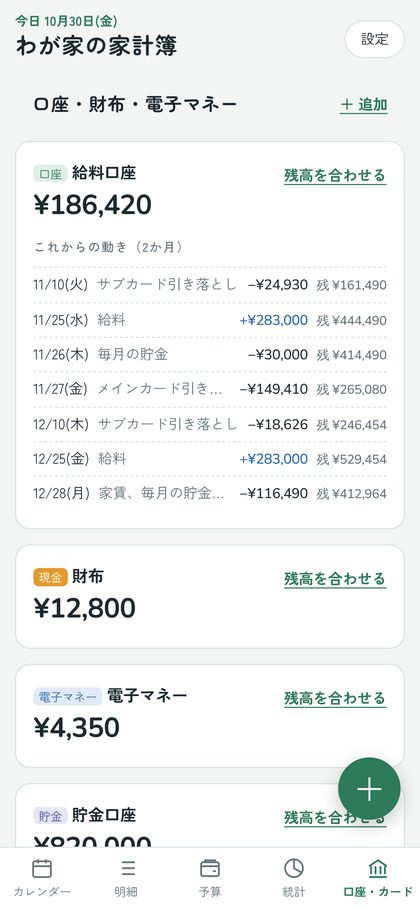
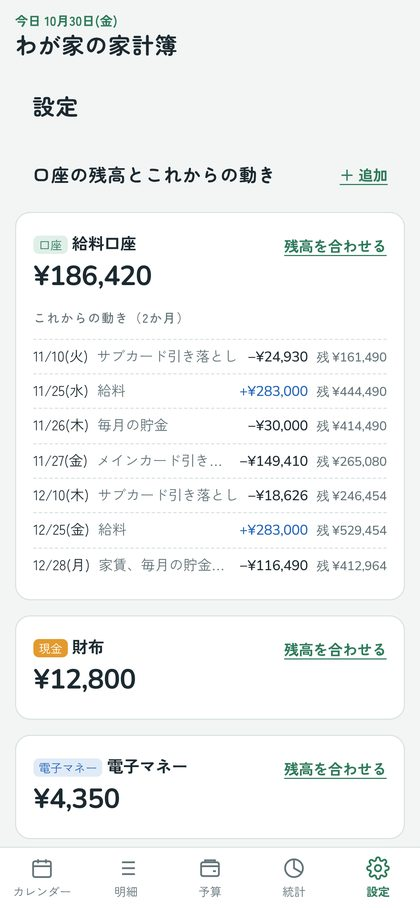
右下を設定にまとめる、残高未設定のときの表示を改善、画像とガイドを更新
Claude-Session: https://claude.ai/code/session_01Q4aVz5riDdXecmyc67e5gN

diff --git a/k-45o531gbsl/index.html b/k-45o531gbsl/index.html
@@ -280,7 +280,6 @@ button,a,.cell{touch-action:manipulation}
 <div class="wrap" id="app">
   <header class="top">
     <div><div class="today" id="todayLbl"></div><h1 id="appName">家計簿</h1></div>
-    <button class="setbtn" id="setBtn" type="button">設定</button>
   </header>
   <section class="card strip" id="strip"></section>
   <div class="monthbar" id="monthbar">
@@ -298,7 +297,7 @@ button,a,.cell{touch-action:manipulation}
   <button data-v="list"><svg viewBox="0 0 24 24" fill="none" stroke="currentColor" stroke-width="1.8"><path d="M8 6h13M8 12h13M8 18h13M3.5 6h.01M3.5 12h.01M3.5 18h.01"/></svg>明細</button>
   <button data-v="budget"><svg viewBox="0 0 24 24" fill="none" stroke="currentColor" stroke-width="1.8"><rect x="3" y="6" width="18" height="14" rx="2"/><path d="M3 10h18M15 15h3M7 6V4h10v2"/></svg>予算</button>
   <button data-v="stats"><svg viewBox="0 0 24 24" fill="none" stroke="currentColor" stroke-width="1.8"><path d="M12 3v9l7.8 4.5"/><circle cx="12" cy="12" r="9"/></svg>統計</button>
-  <button data-v="accts"><svg viewBox="0 0 24 24" fill="none" stroke="currentColor" stroke-width="1.8"><path d="M3 10l9-6 9 6M5 10v8M19 10v8M9.5 10v8M14.5 10v8M3 21h18"/></svg>口座・カード</button>
+  <button data-v="set"><svg viewBox="0 0 24 24" fill="none" stroke="currentColor" stroke-width="1.8" stroke-linecap="round" stroke-linejoin="round"><circle cx="12" cy="12" r="3.2"/><path d="M19.4 15a1.7 1.7 0 0 0 .3 1.8l.1.1a2 2 0 1 1-2.8 2.8l-.1-.1a1.7 1.7 0 0 0-1.8-.3 1.7 1.7 0 0 0-1 1.5V21a2 2 0 1 1-4 0v-.1a1.7 1.7 0 0 0-1.1-1.5 1.7 1.7 0 0 0-1.8.3l-.1.1a2 2 0 1 1-2.8-2.8l.1-.1a1.7 1.7 0 0 0 .3-1.8 1.7 1.7 0 0 0-1.5-1H3a2 2 0 1 1 0-4h.1a1.7 1.7 0 0 0 1.5-1.1 1.7 1.7 0 0 0-.3-1.8l-.1-.1a2 2 0 1 1 2.8-2.8l.1.1a1.7 1.7 0 0 0 1.8.3H9a1.7 1.7 0 0 0 1-1.5V3a2 2 0 1 1 4 0v.1a1.7 1.7 0 0 0 1 1.5 1.7 1.7 0 0 0 1.8-.3l.1-.1a2 2 0 1 1 2.8 2.8l-.1.1a1.7 1.7 0 0 0-.3 1.8V9a1.7 1.7 0 0 0 1.5 1H21a2 2 0 1 1 0 4h-.1a1.7 1.7 0 0 0-1.5 1z"/></svg>設定</button>
 </div></nav>
 <div class="scrim" id="scrim" hidden></div>
 <div class="sheet" id="sheet" role="dialog" aria-modal="true" hidden></div>
@@ -352,7 +351,7 @@ function bankClosed(d){const w=d.getDay(),m=d.getMonth()+1,day=d.getDate();retur
 
 /* ========== data ========== */
 const KEY='mainichi-kakeibo:v2';
-const APP_VERSION='1.2.1';
+const APP_VERSION='1.3.0';
 const SUPPORT_URL='';// 販売ページやお問い合わせ先のURLを入れると、設定に「お問い合わせ」ボタンが出ます
 const KINDS={bank:'銀行口座',cash:'財布（現金）',emoney:'電子マネー・アプリ',savings:'貯金用の口座'};
 const KIND_SHORT={bank:'口座',cash:'現金',emoney:'電子マネー',savings:'貯金'};
@@ -466,7 +465,7 @@ function monthOf(ym){const [a,b]=period(ym);return calc().all.filter(e=>e.date>=
 
 /* ========== state ========== */
 const state={view:'cal',ym:curYm(),sel:todayStr,filter:'all',statType:'out',statBy:'cat',budEdit:false,balEdit:null};
-try{const st=D.prefs.startTab;const v=st==='last'?localStorage.getItem(KEY+':view'):st;if(['cal','list','budget','stats','accts'].includes(v))state.view=v}catch(e){}
+try{let st=D.prefs.startTab;if(st==='accts')st=D.prefs.startTab='set';let v=st==='last'?localStorage.getItem(KEY+':view'):st;if(v==='accts')v='set';if(['cal','list','budget','stats','set'].includes(v))state.view=v}catch(e){}
 if(['budget','stats'].includes(state.view)&&!D.prefs.tabs[state.view])state.view='cal';
 const saveView=()=>{try{localStorage.setItem(KEY+':view',state.view)}catch(e){}};
 
@@ -496,7 +495,7 @@ function render(){
   $('todayLbl').textContent='今日 '+mdj(todayStr);
   document.querySelectorAll('.tabs button').forEach(b=>b.setAttribute('aria-current',b.dataset.v===state.view?'page':'false'));
   const isSet=state.view==='set';
-  $('strip').hidden=isSet||state.view==='accts';
+  $('strip').hidden=isSet;
   $('app').classList.toggle('full',$('strip').hidden);
   $('fab').hidden=isSet;
   if(!$('strip').hidden)renderStrip();
@@ -513,7 +512,9 @@ function renderStrip(){
   if(!accs.length){s.innerHTML='<div class="note">口座や財布がまだありません。</div><button class="link" id="goSet1">設定で追加する</button>';$('goSet1').onclick=()=>go('set');return}
   let tot=0,unset=0;const chips=accs.map(a=>{const b=balAt(a,todayStr);if(b===null)unset++;else if(D.prefs.totalSavings||a.kind!=='savings')tot+=b;
     return '<button class="chip" data-a="'+a.id+'"><small>'+esc(a.name)+'</small><b class="num'+(b<0?' minus':'')+'">'+(b===null?'未設定':yen(b))+'</b></button>'}).join('');
-  let h='<div class="total"><span class="label">今日のお金の合計'+(D.prefs.totalSavings?'':'（貯金をのぞく）')+(unset?'（未設定'+unset+'件をのぞく）':'')+'</span><span class="big num'+(tot<0?' minus':'')+'">'+yen(tot)+'</span></div><div class="accs">'+chips+'</div>';
+  let h;
+  if(unset===accs.length)h='<div class="total" style="align-items:center"><span class="label">今日のお金の合計</span><button class="btn sm" type="button" id="stripSetBal">残高を入れる</button></div><div class="note">口座や財布の今の残高を入れると、合計とこの先の見込みが出ます。</div><div class="accs">'+chips+'</div>';
+  else h='<div class="total"><span class="label">今日のお金の合計'+(D.prefs.totalSavings?'':'（貯金をのぞく）')+(unset?'（未設定'+unset+'件をのぞく）':'')+'</span><span class="big num'+(tot<0?' minus':'')+'">'+yen(tot)+'</span></div><div class="accs">'+chips+'</div>';
   // 次のカード引き落とし（口座ごと）
   const groups={};liveCards().forEach(c=>cardWithdrawals(c).forEach(w=>{const k=w.date+'|'+c.acct;(groups[k]||(groups[k]={date:w.date,acct:c.acct,lines:[]})).lines.push([c.name,w.total])}));
   const next=Object.values(groups).sort((a,b)=>a.date<b.date?-1:1)[0];
@@ -529,6 +530,7 @@ function renderStrip(){
   if(D.entries.length>=10&&(since===null||since>=30))h+='<div class="tip" style="display:flex;gap:10px;align-items:center;justify-content:space-between"><span>'+(lb?'最後のバックアップから'+since+'日たちました。':'まだバックアップがありません。')+'</span><button class="btn sm" type="button" id="stripBk">保存する</button></div>';
   s.innerHTML=h;
   s.querySelectorAll('.chip').forEach(b=>b.onclick=()=>{state.filter=b.dataset.a;go('list')});
+  if($('stripSetBal'))$('stripSetBal').onclick=()=>{go('set');const a=liveAccs()[0];if(a){state.balEdit=a.id;render();const i=$('bi');if(i)i.focus()}};
   if($('stripBk'))$('stripBk').onclick=exportBackup;
 }
 
@@ -642,7 +644,7 @@ function renderStats(v){
 
 function renderAccts(v){
   const accs=liveAccs();
-  v.append(el('div','sec-h','<h2>口座・財布・電子マネー</h2><button class="link" type="button" id="addA">＋ 追加</button>'));
+  v.append(el('div','sec-h','<h2>口座の残高とこれからの動き</h2><button class="link" type="button" id="addA">＋ 追加</button>'));
   if(!accs.length)v.append(el('section','card empty','まだありません。「＋ 追加」から登録してください。'));
   accs.forEach(a=>{
     const b=balAt(a,todayStr),c=el('section','card acct');
@@ -653,7 +655,7 @@ function renderAccts(v){
       return '<li><span>'+md(g.date)+'</span><span>'+esc(names)+'</span><span class="num '+(g.net<0?'':'plus')+'">'+signed(g.net)+'</span><span class="after num'+(g.after<(D.prefs.warnBelow||0)?' minus':'')+'">'+(g.after===undefined?'':g.after<0?yen(-g.after)+'不足':'残 '+yen(g.after))+'</span></li>'}).join('')+'</ul>'}
     c.innerHTML=h;v.append(c);
   });
-  v.append(el('div','sec-h','<h2>クレジットカード</h2><button class="link" type="button" id="addC">＋ 追加</button>'));
+  v.append(el('div','sec-h','<h2>カードの引き落とし予定</h2><button class="link" type="button" id="addC">＋ 追加</button>'));
   const cards=liveCards();
   if(!cards.length)v.append(el('section','card empty','カードは登録されていません。使っているカードがあれば何枚でも追加できます。'));
   cards.forEach(cd=>{const w=cardWithdrawals(cd).slice(0,3);const c=el('section','card acct');
@@ -783,7 +785,7 @@ function saveEntry(){
 }
 
 /* ========== settings ========== */
-function go(v){state.view=v;if(v!=='set')saveView();render();scrollTo(0,0)}
+function go(v){if(v==='accts')v='set';state.view=v;saveView();render();scrollTo(0,0)}
 function usedBy(id){return D.entries.some(e=>e.src===id||e.dst===id)||D.recurring.some(r=>r.src===id||r.dst===id)||D.cards.some(c=>c.acct===id)}
 const SWATCH=['#6a6fc4','#2e8a6a','#e39a2d','#3a8fb0','#c8412d','#b0568f','#9a7b3c','#5f8f3a'];
 const ACCENTS=[['green','#2e7a5a','みどり'],['blue','#2565b8','あお'],['pink','#c0487e','ピンク'],['orange','#c0621a','オレンジ'],['purple','#6a4fb0','むらさき'],['gray','#4f5d63','グレー']];
@@ -796,8 +798,10 @@ function itemRow(title,sub,right,onOpen,onUp,onDown){
 const selOpts=(list,cur)=>list.map(([v,n])=>'<option value="'+esc(v)+'"'+(String(v)===String(cur)?' selected':'')+'>'+esc(n)+'</option>').join('');
 function renderSettings(v){
   const P=D.prefs;
-  v.append(el('div','sec-h','<h2 style="font-size:1.2rem">設定</h2><button class="link" type="button" id="setBack">← 戻る</button>'));
-  $('setBack').onclick=()=>{let t='cal';try{t=localStorage.getItem(KEY+':view')||'cal'}catch(e){}go(t)};
+  v.append(el('div','sec-h','<h2 style="font-size:1.3rem">設定</h2>'));
+  // いちばん上：口座・カードの残高とこれからの動き
+  renderAccts(v);
+  v.append(el('div','sec-h','<h2 style="font-size:1.15rem">そのほかの設定</h2>'));
   v.append(el('div','tip','ここで変えた設定は、すぐに反映されます。記録が消えることはありません。'));
 
   /* 基本 */
@@ -806,13 +810,13 @@ function renderSettings(v){
   v.append(el('section','card pad','<h2>家族と共有 <span class="soon">近日公開</span></h2><div class="note">同じ家計簿を、家族のスマホでも見て記録できる機能を準備しています。公開されたら、ここからはじめられるようになります。</div><div><button class="btn sm" type="button" disabled>準備中</button></div>'));
 
   /* 口座 */
-  const ac=el('section','card');ac.append(el('div','sec-h','<h2>口座・財布・電子マネー</h2><button class="link" type="button" id="sAddA">＋ 追加</button>'));
+  const ac=el('section','card');ac.append(el('div','sec-h','<h2>口座・財布・電子マネーの編集</h2><button class="link" type="button" id="sAddA">＋ 追加</button>'));
   ac.append(el('div','note','<div style="padding:0 16px 8px">いくつでも登録できます。↑↓で並び順を変えると、画面の上の残高や選ぶ画面の順番も変わります。</div>'));
   D.accounts.forEach((a,i)=>ac.append(itemRow(esc(a.name)+(a.archived?'（非表示中）':''),KINDS[a.kind],'<span class="go">編集 ›</span>',()=>accountForm(a),()=>{if(moveIn(D.accounts,i,-1))commit()},()=>{if(moveIn(D.accounts,i,1))commit()})));
   v.append(ac);$('sAddA').onclick=()=>accountForm(null);
 
   /* カード */
-  const cc=el('section','card');cc.append(el('div','sec-h','<h2>クレジットカード</h2><button class="link" type="button" id="sAddC">＋ 追加</button>'));
+  const cc=el('section','card');cc.append(el('div','sec-h','<h2>クレジットカードの編集</h2><button class="link" type="button" id="sAddC">＋ 追加</button>'));
   cc.append(el('div','note','<div style="padding:0 16px 8px">何枚でも登録できます。カードごとに締め日・支払い月（翌月／翌々月）・引き落とし日・土日祝の扱い・引き落とし口座を決められます。</div>'));
   if(!D.cards.length)cc.append(el('div','empty','カードはまだありません。'));
   D.cards.forEach((c,i)=>cc.append(itemRow(esc(c.name)+(c.archived?'（非表示中）':''),payText(c)+' ・ '+esc(nameOf(c.acct)),'<span class="go">編集 ›</span>',()=>cardForm(c),()=>{if(moveIn(D.cards,i,-1))commit()},()=>{if(moveIn(D.cards,i,1))commit()})));
@@ -859,7 +863,7 @@ function renderSettings(v){
   $('inSave').onclick=()=>saveIn(il);
 
   /* 表示 */
-  const tabsList=[['last','前回見ていた画面'],['cal','カレンダー'],['list','明細'],['budget','予算'],['stats','統計'],['accts','口座・カード']];
+  const tabsList=[['last','前回見ていた画面'],['cal','カレンダー'],['list','明細'],['budget','予算'],['stats','統計'],['set','設定（口座・カード）']];
   const ds=el('section','card pad','<h2>表示</h2>'+
     '<div class="two"><div class="field"><label for="pTheme">画面の明るさ</label><select id="pTheme">'+selOpts([['auto','端末に合わせる'],['light','ライト'],['dark','ダーク']],P.theme)+'</select></div>'+
     '<div class="field"><label for="pStart">開いたときの画面</label><select id="pStart">'+selOpts(tabsList,P.startTab)+'</select></div></div>'+
@@ -895,7 +899,7 @@ function renderSettings(v){
 
   /* お知らせ */
   const ws=el('section','card pad','<h2>残高の見込みとお知らせ</h2>'+
-    '<div class="note">登録したカード払いと毎月の入出金（給料・家賃など）から、口座の残高がこの先いくらになるかを計算します。足りなくなりそうな日があると、画面の上に「⚠」でお知らせします。見込みは「口座・カード」タブの「これからの動き」で見られます。</div>'+
+    '<div class="note">登録したカード払いと毎月の入出金（給料・家賃など）から、口座の残高がこの先いくらになるかを計算します。足りなくなりそうな日があると、画面の上に「⚠」でお知らせします。見込みは、この画面のいちばん上の「これからの動き」で見られます。</div>'+
     '<div class="field"><label for="pHor">どこまで先を計算するか</label><select id="pHor">'+selOpts([[31,'1か月先まで'],[62,'2か月先まで'],[93,'3か月先まで'],[186,'6か月先まで']],P.horizon)+'</select></div>'+
     '<div class="field"><label for="pWarn">お知らせする残高のライン</label><div class="btnrow" style="flex-wrap:nowrap;align-items:center"><span style="font-weight:700">¥</span>'+moneyInput('pWarn',P.warnBelow||'',false,'0')+'<button class="btn sm" type="button" id="pWarnSave">保存</button></div>'+
       '<div class="note">0 のままなら、残高が<b>マイナス（足りない）</b>になりそうなときだけ知らせます。例えば 30,000 にすると、残高が3万円を下回りそうなときに知らせます。</div></div>'+
@@ -1114,7 +1118,7 @@ function drawSetup(){
 
 /* ========== nav ========== */
 document.querySelectorAll('.tabs button').forEach(b=>b.onclick=()=>{state.budEdit=false;state.balEdit=null;go(b.dataset.v)});
-$('setBtn').onclick=()=>go('set');
+
 $('fab').onclick=()=>openEntry(null,state.view==='cal'&&periodYm(state.sel)===state.ym?state.sel:null);
 function shift(n){state.ym=addMonths(state.ym,n);state.sel=state.ym===curYm()?todayStr:period(state.ym)[0];render()}
 $('prev').onclick=()=>shift(-1);$('next').onclick=()=>shift(1);

diff --git a/k-45o531gbsl/guide.html b/k-45o531gbsl/guide.html
@@ -168,7 +168,7 @@ footer{margin-top:3em;color:var(--muted);font-size:.85rem;text-align:center}
 <tr><th>返品してカードに返金された</th><td><b>収入</b> → 種類「返金」、入金先「（そのカード）（返金）」。次の引き落としから引かれます</td></tr>
 <tr><th>友だちの分を立て替えた</th><td><b>支出</b> → 費目「予算外」・内訳「立て替え」。返してもらったら<b>収入</b> → 種類「その他」</td></tr>
 <tr><th>税金・冠婚葬祭など特別な出費</th><td><b>支出</b> → 費目「予算外」。予算の計算に入らず、残高からは引かれます</td></tr>
-<tr><th>電子マネーや財布の残高が合わなくなった</th><td>「口座・カード」タブ →「残高を合わせる」で、今の金額を入れ直す</td></tr>
+<tr><th>電子マネーや財布の残高が合わなくなった</th><td>「設定」タブ →いちばん上の「残高を合わせる」で、今の金額を入れ直す</td></tr>
 </table>
 
 <h2 id="screens">5. 画面の見かた</h2>
@@ -185,16 +185,16 @@ footer{margin-top:3em;color:var(--muted);font-size:.85rem;text-align:center}
 <tr><th>明細</th><td>月の記録の一覧。上のボタンで口座やカードごとに絞り込めます。</td></tr>
 <tr><th>予算</th><td>費目ごとの残り、1日あたりに使える金額。</td></tr>
 <tr><th>統計</th><td>費目別・支払い元別の円グラフと、6か月の推移。</td></tr>
-<tr><th>口座・カード</th><td>口座ごとの残高とこれからの動き、カードごとの引き落とし予定。</td></tr>
+<tr><th>設定</th><td>いちばん上に口座ごとの残高とこれからの動き、カードごとの引き落とし予定。その下に、すべての設定。</td></tr>
 </table>
 <p>月は<span class="k">‹ ›</span>のボタンか、左右にスワイプして切り替えます。</p>
 </div></div>
 <h3>残高がずれてきたら</h3>
-<p><span class="k">口座・カード</span>タブで<span class="k">残高を合わせる</span>を押し、通帳やアプリに出ている今の残高を入れます。その日から計算し直します。</p>
+<p><span class="k">設定</span>タブのいちばん上で<span class="k">残高を合わせる</span>を押し、通帳やアプリに出ている今の残高を入れます。その日から計算し直します。</p>
 
 <h2 id="forecast">6. 残高の見込みとお知らせ</h2>
 <p>この家計簿は、今日の残高に<b>これから入るお金・出ていくお金</b>を足し引きして、口座の残高が先々いくらになるかを計算します。これが「残高の見込み」です。</p>
-<div class="shot"><img src="guide/accts.jpg" alt="口座・カードの画面"><div>
+<div class="shot"><img src="guide/accts.jpg" alt="設定の画面（口座の残高）"><div>
 <h3 style="margin-top:0">見込みに使われるもの</h3>
 <ul>
 <li>まだ引き落とされていない<b>カード払い</b>（分割払いの残りもふくむ）</li>
@@ -203,7 +203,7 @@ footer{margin-top:3em;color:var(--muted);font-size:.85rem;text-align:center}
 </ul>
 <h3>どこで見られる？</h3>
 <ul>
-<li><b>口座・カード</b>タブの「これからの動き」：日付ごとに、出入りする金額と、そのあとの残高（「残 ¥…」）が並びます。</li>
+<li><b>設定</b>タブのいちばん上の「これからの動き」：日付ごとに、出入りする金額と、そのあとの残高（「残 ¥…」）が並びます。</li>
 <li>画面のいちばん上の<b>「次のカード引き落とし」</b>：次に引き落とされる日・金額・引き落とし後の残高。</li>
 </ul>
 </div></div>
@@ -226,7 +226,7 @@ footer{margin-top:3em;color:var(--muted);font-size:.85rem;text-align:center}
 </table>
 <h3>見込みが実際とずれるときは</h3>
 <ul>
-<li><b>今日の残高</b>がずれている → 「口座・カード」→「残高を合わせる」で今の残高を入れ直します。</li>
+<li><b>今日の残高</b>がずれている → 「設定」→いちばん上の「残高を合わせる」で今の残高を入れ直します。</li>
 <li><b>カードで買った物</b>の記録もれ → 見込みのカード引き落としが実際より少なくなります。</li>
 <li><b>給料や家賃</b>を「毎月の入出金」に登録していない → 先の入出金が見込みに入りません。</li>
 <li><b>カードの締め日・引き落とし日</b>がちがう → 設定 → カードを押して確認します。</li>
@@ -252,7 +252,7 @@ footer{margin-top:3em;color:var(--muted);font-size:.85rem;text-align:center}
 
 <h2 id="settings">9. 設定でできること</h2>
 <div class="shot"><img src="guide/cats.jpg" alt="費目の設定"><div>
-<p>右上の<span class="k">設定</span>から、ほとんどすべてを変えられます。変えた内容はすぐに反映され、記録が消えることはありません。</p>
+<p>右下の<span class="k">設定</span>から、ほとんどすべてを変えられます。変えた内容はすぐに反映され、記録が消えることはありません。</p>
 <ul>
 <li><b>口座・カード</b>：追加・編集・並べ替え。使わなくなったものは「非表示」にできます（過去の記録は残ります）。</li>
 <li><b>費目</b>：追加・削除・名前・色・並び順・内訳。予算の画面の<span class="k">削除</span>からもすぐ消せます（6秒以内なら「元に戻す」）。</li>
@@ -293,7 +293,7 @@ footer{margin-top:3em;color:var(--muted);font-size:.85rem;text-align:center}
 <p class="q">引き落とし日が実際とちがいます。</p>
 <p class="a"><span class="k">設定</span>→カードを押して、締め日・支払い月・引き落とし日・土日祝の扱いを確認してください。変えると、これまでのカード払いもすべて計算し直します。</p>
 <p class="q">残高が実際とずれました。</p>
-<p class="a"><span class="k">口座・カード</span>→<span class="k">残高を合わせる</span>で、今の残高を入れ直してください。</p>
+<p class="a"><span class="k">設定</span>→<span class="k">残高を合わせる</span>で、今の残高を入れ直してください。</p>
 <p class="q">「新しいバージョンがあります」と出ました。</p>
 <p class="a"><span class="k">更新する</span>を押すと新しいバージョンになります。記録はそのまま残ります。</p>
 <p class="q">口座やカードが削除できません。</p>

diff --git a/k-45o531gbsl/sw.js b/k-45o531gbsl/sw.js
@@ -1,5 +1,5 @@
 // まいにち家計簿：オフラインで動かすためのキャッシュ。アプリを更新したら VERSION を上げる
-const VERSION = 'v1.2.1';
+const VERSION = 'v1.3.0';
 const CACHE = 'mk-app-' + VERSION;
 const CORE = ['./', './index.html', './guide.html', './manifest.webmanifest',
   './icons/favicon.svg', './icons/icon-192.png', './icons/icon-512.png', './icons/apple-touch-icon.png', './icons/maskable-512.png',
